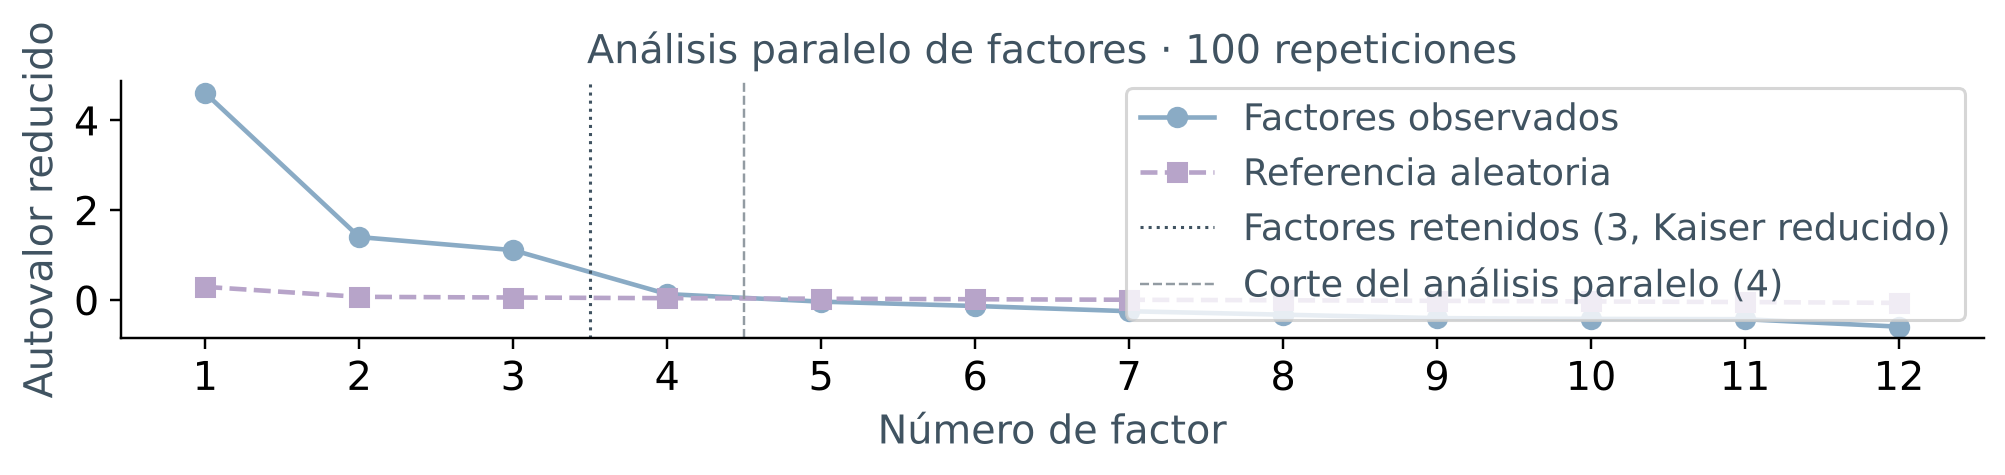
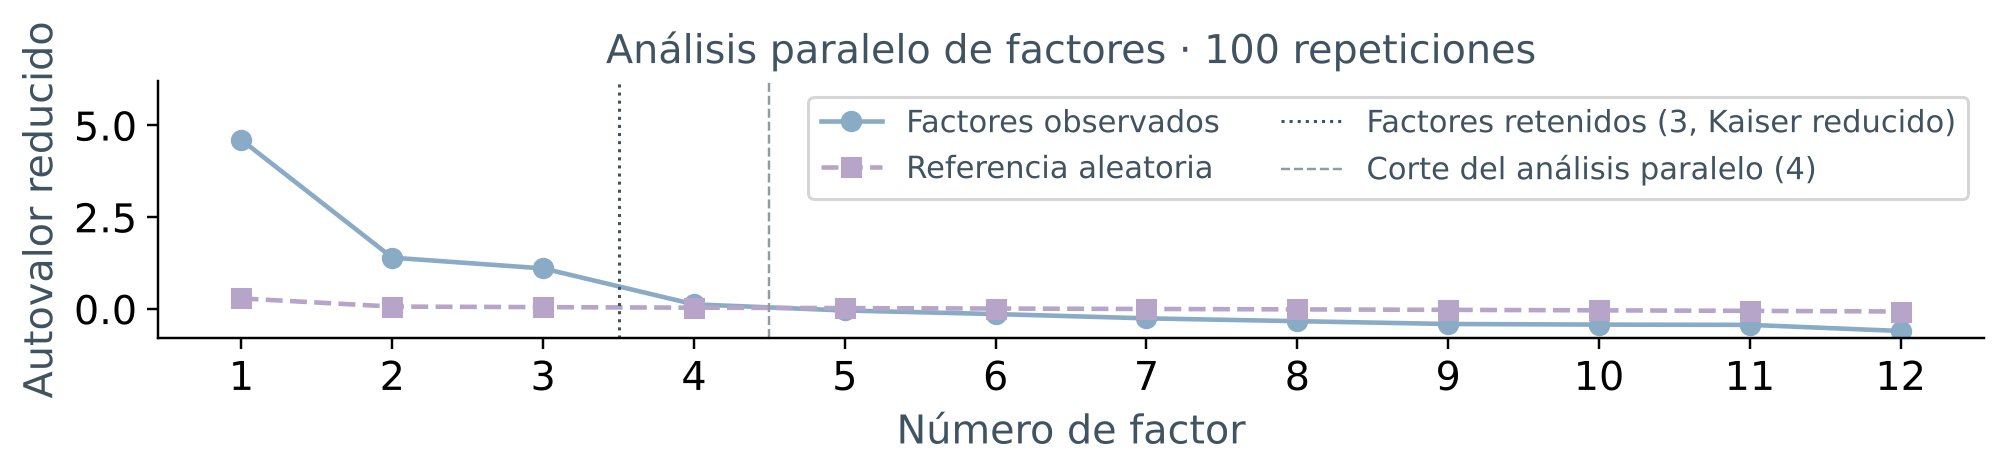
AF: 3 factores GLS sin Heywood; integración sin cifras fijas; capítulo de logística
Claude-Session: https://claude.ai/code/session_01R3eRD9aWdWVaf9U5N6a3X7

diff --git a/informe/capitulos/07_logistica.tex b/informe/capitulos/07_logistica.tex
@@ -1,51 +1,50 @@
 \section{Regresión logística}
 \label{sec:logistica}
 
-\textbf{Objetivo y diseño.} Para contrastar H4 modelamos la probabilidad de que un flujo sea ataque (\texttt{label} = 1) con regresión logística \citep{hosmer2013}. Dividimos la muestra de 5.000 flujos en 3.500 de entrenamiento (51,8\,\% ataques) y 1.500 de prueba (51,9\,\%), de forma estratificada por \texttt{label} y con semilla 42. No usamos el testing set original porque no está en el repositorio y habría que prepararlo con el mismo tratamiento. Para evitar fuga de información reajustamos el ACP solo con el entrenamiento y proyectamos la prueba con esas cargas; estas son casi idénticas a las del capítulo~\ref{sec:acp} (correlación $\ge 0{,}999$, diferencia máxima 0,015), por lo que las componentes se interpretan igual. Los predictores son los puntajes de PC1, PC2 y PC3 y tres categóricas agrupadas: \texttt{proto\_g} (referencia tcp), \texttt{service\_g} (ninguno) y \texttt{state\_g} (FIN), tomando como referencia la categoría más frecuente. Excluimos las variables TTL, que separan perfectamente las clases por un artefacto del laboratorio y darían un AUC irreal, y \texttt{tipo\_trafico} y \texttt{attack\_cat}, que contienen la etiqueta.
+\textbf{Diseño.} Para contrastar H4 modelamos la probabilidad de que un flujo sea ataque (\texttt{label} = 1) con regresión logística \citep{hosmer2013}. Dividimos la muestra en 3.500 flujos de entrenamiento (51,8\,\% ataques) y 1.500 de prueba (51,9\,\%), estratificando por \texttt{label} (semilla 42) (no usamos el testing set original: no está en el repositorio y habría que prepararlo igual). Para evitar fuga reajustamos el ACP solo con el entrenamiento y proyectamos la prueba; las cargas son casi idénticas a las del capítulo~\ref{sec:acp} (correlación $\ge 0{,}999$). Los predictores son PC1 a PC3 y \texttt{proto\_g} (referencia tcp), \texttt{service\_g} (ninguno) y \texttt{state\_g} (FIN), con la categoría más frecuente como referencia. Excluimos TTL (separación perfecta artefactual) y \texttt{tipo\_trafico} y \texttt{attack\_cat} (fuga de la etiqueta).
 
-\textbf{Elección del modelo.} Comparamos M1 (solo los tres puntajes) con M2 (M1 más protocolo, servicio y estado). La prueba de razón de verosimilitud favorece a M2 ($\chi^2 = 862{,}2$; 7 gl; $p < 0{,}001$), que además reduce el AIC en unos 850 puntos y mejora el AUC en 0,08 (Tabla~\ref{tab:log-modelos}). Elegimos M2.
+\textbf{Elección del modelo.} M1 usa solo los puntajes; M2 agrega protocolo, servicio y estado. La razón de verosimilitud favorece a M2 ($\chi^2 = 862{,}2$; 7 gl; $p < 0{,}001$), con unos 850 puntos menos de AIC y 0,08 más de AUC (Tabla~\ref{tab:log-modelos}). Elegimos M2.
 
 \begin{table}[H]
   \centering
-  \caption{Comparación de modelos. El AUC se calcula sobre la muestra de prueba.}\label{tab:log-modelos}
+  \caption{Comparación de modelos; el AUC es sobre la muestra de prueba.}\label{tab:log-modelos}
   \begin{tablacompacta}
   \begin{tabular}{lrrr} \toprule
-  Modelo & AIC & $R^2$ de McFadden & AUC prueba \\ \midrule
+  Modelo & AIC & $R^2$ McFadden & AUC prueba \\ \midrule
   M1: 3 puntajes del ACP & 3.744,1 & 0,229 & 0,794 \\
   M2: M1 + protocolo, servicio, estado & 2.895,9 & 0,407 & 0,878 \\ \bottomrule
   \end{tabular}
   \end{tablacompacta}
 \end{table}
 
-\textbf{Odds ratios.} Los OR de las componentes se expresan por cada desvío estándar del puntaje y los de las categóricas frente a su referencia (Tabla~\ref{tab:log-or}; IC 95\,\% por verosimilitud perfilada). Con los demás predictores fijos, un desvío más de PC1 (más volumen y temporización, menos repetición de conexiones) multiplica las chances de ataque por 4,7; un desvío más de PC2 (más volumen y más repetición a la vez) las reduce un 39\,\%. Frente al estado FIN, las conexiones con estado CON\_otros tienen chances mucho menores de ser ataque (OR 0,05). Los OR de las categóricas son condicionales y poco estables: hay colinealidad entre ellas (VIF $\approx 16$ en \texttt{udp} e INT, 8,1 en CON\_otros; $\le 3{,}7$ en las componentes), de modo que no deben leerse de a uno. Por ejemplo, dns tiene 31\,\% de ataques en el entrenamiento (49\,\% en servicio ninguno), pero su OR ajustado es 18,7, porque el signo cambia al controlar por estado y protocolo. El IC de INT (22,6 a 361,8) es tan ancho que el valor puntual no debe citarse como ``93 veces'': solo concluimos que INT se asocia con mayores chances de ataque. Los OR de \texttt{proto\_g} (udp, otros) y de servicio ``otros'' no se distinguen de 1.
+\textbf{Odds ratios.} Con lo demás fijo, un desvío más de PC1 (más volumen y temporización, menos repetición) multiplica las chances de ataque por 4,7, y uno más de PC2 (más volumen y repetición a la vez) las reduce un 39\,\% (Tabla~\ref{tab:log-or}). El estado CON\_otros tiene chances mucho menores que FIN (OR 0,05). Los OR de las categóricas son condicionales y poco estables por colinealidad (VIF $\approx 16$ en \texttt{udp} e INT; $\le 3{,}7$ en las componentes), así que no deben leerse de a uno: dns tiene 31\,\% de ataques en el entrenamiento (49\,\% en servicio ninguno) pero OR ajustado 18,7: el signo cambia al controlar por estado y protocolo. El IC de INT es muy ancho: no debe citarse ``93 veces''.
 
 \begin{table}[H]
   \centering
-  \caption{Odds ratios del modelo M2 (principales términos). Componentes: OR por desvío del puntaje. El resto de los términos (protocolo otros, servicio otros) tiene IC que incluye 1.}\label{tab:log-or}
+  \caption{Odds ratios de M2 con IC 95\,\% por verosimilitud perfilada (componentes: por desvío del puntaje; categóricas: frente a la referencia). Los términos de protocolo (udp, otros) y servicio otros tienen IC que incluyen 1.}\label{tab:log-or}
   \begin{tablacompacta}
   \begin{tabular}{lrr} \toprule
   Término & OR & IC 95\,\% \\ \midrule
-  PC1 (por desvío) & 4,68 & 3,82 -- 5,77 \\
-  PC2 (por desvío) & 0,61 & 0,54 -- 0,69 \\
-  PC3 (por desvío) & 2,55 & 2,27 -- 2,89 \\
+  PC1 & 4,68 & 3,82 -- 5,77 \\
+  PC2 & 0,61 & 0,54 -- 0,69 \\
+  PC3 & 2,55 & 2,27 -- 2,89 \\
   Estado INT vs FIN & 92,7 & 22,6 -- 361,8 \\
   Estado CON\_otros vs FIN & 0,05 & 0,02 -- 0,13 \\
   Servicio dns vs ninguno & 18,7 & 8,5 -- 43,0 \\
-  Servicio http vs ninguno & 1,88 & 1,47 -- 2,42 \\
-  Protocolo udp vs tcp & 0,42 & 0,11 -- 1,73 \\ \bottomrule
+  Servicio http vs ninguno & 1,88 & 1,47 -- 2,42 \\ \bottomrule
   \end{tabular}
   \end{tablacompacta}
 \end{table}
 
-\textbf{Desempeño en prueba.} Con umbral 0,5, M2 alcanza AUC = 0,878 (IC 95\,\% de DeLong, calculado con \texttt{pROC} \citep{robin2011}: 0,860 -- 0,896), exactitud 0,817, sensibilidad 0,910, especificidad 0,717 y precisión 0,776. El error dominante son los falsos positivos: 204 flujos normales marcados como ataque (28,3\,\% de los normales) frente a 70 ataques no detectados (9,0\,\%; Figura~\ref{fig:log-roc}). En detección de intrusiones esto significa que el modelo prioriza no dejar pasar ataques a costa de generar alertas falsas, que en una red real implican carga de revisión; como el umbral no está optimizado, podría ajustarse según el costo relativo de cada error.
+\textbf{Desempeño en prueba.} Con umbral 0,5, M2 logra AUC = 0,878 (IC 95\,\% de DeLong con \texttt{pROC} \citep{robin2011}: 0,860 -- 0,896), exactitud 0,817, sensibilidad 0,910, especificidad 0,717 y precisión 0,776. Domina el falso positivo: 204 normales marcados como ataque (28,3\,\% de los normales) frente a 70 ataques no detectados (9,0\,\%; Figura~\ref{fig:log-roc}). En detección de intrusiones el modelo prioriza no dejar pasar ataques a costa de alertas falsas.
 
 \begin{figure}[H]
   \centering
-  \grafico[0.88\linewidth]{17_logistica_roc_confusion.png}
-  \caption{Curva ROC y matriz de confusión de M2 en la muestra de prueba (umbral 0,5). La curva se aleja claramente de la diagonal del azar; el error principal son los normales clasificados como ataque. Fuente: elaboración propia con UNSW-NB15.}
+  \grafico[0.6\linewidth]{17_logistica_roc_confusion.png}
+  \caption{Curva ROC y matriz de confusión de M2 en la prueba (umbral 0,5). La curva se aleja de la diagonal del azar; el error principal son los normales clasificados como ataque. Fuente: elaboración propia con UNSW-NB15.}
   \label{fig:log-roc}
 \end{figure}
 
-\textbf{Diagnóstico.} No hay separación: el algoritmo convergió en 6 iteraciones sin avisos, el coeficiente máximo en valor absoluto es 4,5 (error estándar máximo 0,71) y ninguna probabilidad ajustada está a menos de $10^{-8}$ de 0 o 1. Respecto de la influencia, 151 flujos (4,3\,\%) superan el umbral $4/n$ de la distancia de Cook, pero el máximo es 0,030, muy lejos de 1, y no quitamos ninguno. La calibración es razonable en el centro, aunque los deciles altos sobreestiman (decil 10: predicho 0,94, observado 0,86) y el decil 4 subestima (0,38 frente a 0,48), con ruido de varios puntos por decil de 150 flujos (Anexo A, Figura A.\ref{fig:a-log-or-cal}, donde también se grafican los OR).
+\textbf{Diagnóstico.} No hay separación: convergió en 6 iteraciones sin avisos, el coeficiente máximo es 4,5 y ninguna probabilidad ajustada está a menos de $10^{-8}$ de 0 o 1. En influencia, 151 flujos (4,3\,\%) superan $4/n$ en la distancia de Cook, pero el máximo es 0,030, muy lejos de 1. La calibración es razonable, salvo que el decil 10 sobreestima (predicho 0,94, observado 0,86; Anexo A, Figura~\ref{fig:a-log-or-cal}).
 
-\textbf{Cierre e H4.} H4 se confirma: el AUC en prueba es 0,878 y el límite inferior de su IC (0,860) también supera 0,80. La mejora se debe a incorporar protocolo, servicio y estado, ya que con las componentes solas (M1, AUC 0,794) la hipótesis no se cumpliría. La probabilidad estimada es relativa a esta base (52\,\% de ataques, sin duplicados, ataques sintéticos de laboratorio): interpretamos odds ratios y no prevalencias absolutas, y el desempeño no se extrapola a una red real.
+\textbf{Cierre.} H4 se confirma: el AUC en prueba es 0,878 y el límite inferior de su IC (0,860) también supera 0,80; con las componentes solas (M1, 0,794) no se cumpliría. La probabilidad estimada es relativa a esta base (52\,\% de ataques, sin duplicados, ataques sintéticos): interpretamos odds ratios, no prevalencias, y no extrapolamos a una red real.

diff --git a/informe/capitulos/02_datos.tex b/informe/capitulos/02_datos.tex
@@ -1,5 +1,48 @@
 \section{Datos}
 \label{sec:datos}
 
-[Pendiente]
+\textbf{Origen y unidad de análisis.} Trabajamos con UNSW-NB15 \citep{moustafa2015,moustafa2016}, publicada por UNSW Canberra para uso académico con obligación de citar a sus autores. El tráfico normal es realista, pero los ataques se generaron de forma sintética en un laboratorio. La unidad de análisis es el flujo; el prefijo \texttt{s} indica el sentido origen$\to$destino y \texttt{d} el inverso. Partimos del archivo de entrenamiento (175.341 flujos y 45 columnas) y construimos una muestra de 5.000 flujos únicos, estratificada de forma proporcional por \texttt{attack\_cat}: 48,2~\% normales y 51,8~\% ataques (Exploits 18,4~\%, Fuzzers 15,0~\%, Reconnaissance 7,0~\% y el resto, 11,5~\%, agrupado como ``otros ataques''). Al eliminar los duplicados, que en el archivo original eran el 38,6~\% y en su mayoría ataques automáticos, analizamos perfiles distintos de flujo: las proporciones de la muestra no son prevalencias reales de la red.
 
+\textbf{Transformación.} Las variables son positivas, con colas muy largas y rangos de varios órdenes de magnitud. Aplicamos $\log(x+1)$, que conserva los ceros y reduce la asimetría de \texttt{sbytes} de 33,3 a 1,0, la de \texttt{spkts} de 30,9 a 0,8 y la de \texttt{dbytes} de 36,2 a $-0,4$. Persisten colas en \texttt{log\_dur} (2,8), \texttt{log\_ct\_src\_dport\_ltm} (3,1) y \texttt{log\_ct\_dst\_sport\_ltm} (4,7). Los gráficos antes y después están en el Anexo A (Figuras~\ref{fig:a-hist-crudos} y~\ref{fig:a-hist-log}).
+
+\textbf{Variables.} El conjunto X\_num queda formado por las 12 variables de la Tabla~\ref{tab:xnum}, todas en escala logarítmica, agrupadas en los tres bloques esperados. El conjunto X\_cat tiene siete variables: \texttt{tipo\_trafico} (Normal, Exploits, Fuzzers, Reconnaissance y Otros ataques), \texttt{proto\_g} (tcp 70,8~\%, udp 21,9~\%, otros 7,3~\%), \texttt{service\_g} (ninguno 60,0~\%, http 17,4~\%, otros 12,3~\%, dns 10,3~\%), \texttt{state\_g} (FIN 69,3~\%, INT 18,3~\%, CON\_otros 12,4~\%) y tres numéricas discretizadas, \texttt{respuesta\_destino}, \texttt{duracion\_banda} y \texttt{bytes\_origen\_banda}, cuyos cortes se justifican en la sección~\ref{sec:acm}. Ninguna categoría baja del 5~\% (la menor es Reconnaissance, con 7,0~\%). Las variables \texttt{tipo\_trafico}, \texttt{attack\_cat} y \texttt{label} no intervienen en la construcción de componentes, factores ni clusters: solo colorean o se cruzan después.
+
+\begin{table}[H]
+  \centering
+  \caption{Variables de X\_num (todas en escala $\log(x+1)$; la unidad es la de la variable original).}\label{tab:xnum}
+  \begin{tablacompacta}
+  \begin{tabular}{@{}llp{6.6cm}l@{}}
+  \toprule
+  Variable & Bloque esperado & Significado & Unidad \\
+  \midrule
+  \texttt{spkts} & Volumen & Paquetes enviados por el origen & paquetes \\
+  \texttt{sbytes} & Volumen & Bytes enviados por el origen & bytes \\
+  \texttt{dbytes} & Volumen & Bytes enviados por el destino & bytes \\
+  \texttt{dur} & Temporización & Duración total del flujo & segundos \\
+  \texttt{sinpkt} & Temporización & Tiempo entre paquetes del origen & ms \\
+  \texttt{sjit} & Temporización & Jitter (variabilidad de esos tiempos) del origen & ms \\
+  \texttt{synack} & Temporización & Tiempo entre SYN y SYN-ACK (0 si no es TCP) & segundos \\
+  \texttt{ct\_srv\_src} & Repetición & Últimas 100 conexiones con igual servicio y origen & conexiones \\
+  \texttt{ct\_srv\_dst} & Repetición & Ídem con igual servicio y destino & conexiones \\
+  \texttt{ct\_src\_ltm} & Repetición & Ídem con igual origen & conexiones \\
+  \texttt{ct\_src\_dport\_ltm} & Repetición & Ídem con igual origen y puerto destino & conexiones \\
+  \texttt{ct\_dst\_sport\_ltm} & Repetición & Ídem con igual destino y puerto origen & conexiones \\
+  \bottomrule
+  \end{tabular}
+  \end{tablacompacta}
+\end{table}
+
+\textbf{Calidad.} No hay valores faltantes ni textos vacíos, filas duplicadas ni identificadores repetidos, y tampoco valores negativos, TTL fuera de 0--255, conteos no enteros ni flujos con menos bytes que paquetes (Anexo A, Tabla~\ref{tab:a-calidad}). La única incidencia es un flujo con \texttt{is\_ftp\_login} = 4, un código no binario; lo conservamos porque esa variable no entra en los análisis. El servicio ``\texttt{-}'' se recodificó como ``ninguno'' (sin servicio identificado, no faltante). Hay ceros estructurales que no imputamos: \texttt{synack} en 1.482 flujos (29,6~\%, sin handshake TCP), \texttt{sjit} en 1.294 (25,9~\%) y \texttt{dbytes} en 945 (18,9~\%, el destino no respondió). Para los atípicos usamos el criterio de Tukey, fuera de $[Q_1-1{,}5\,\mathrm{RIC};\,Q_3+1{,}5\,\mathrm{RIC}]$ sobre la escala logarítmica. Resultan 1.714 flujos (34,3~\%) con al menos una de las 12 variables fuera de los límites; la mayor cifra es la de \texttt{log\_dbytes}, 1.056 casos (21,1~\%), de los cuales 945 son los ceros de flujos sin respuesta. En \texttt{log\_ct\_dst\_sport\_ltm} el criterio es poco informativo, porque el 90,7~\% de los flujos vale 1 y el rango intercuartílico es nulo. Decidimos conservar todos los flujos: en ciberseguridad lo extremo puede ser el fenómeno de interés y un valor extremo no prueba un error (boxplots en Anexo A, Figura~\ref{fig:a-boxplots}).
+
+\textbf{Descriptiva y supuestos.} La Figura~\ref{fig:correlaciones} muestra tres zonas. Las variables de volumen se correlacionan entre sí (\texttt{spkts}--\texttt{sbytes} 0,86; \texttt{spkts}--\texttt{dbytes} 0,80), las de temporización también (\texttt{sinpkt}--\texttt{sjit} 0,85; \texttt{dur}--\texttt{sinpkt} 0,68) y las de repetición forman un tercer grupo (\texttt{ct\_srv\_src}--\texttt{ct\_srv\_dst} 0,85; \texttt{ct\_src\_dport\_ltm}--\texttt{ct\_dst\_sport\_ltm} 0,74). Las repeticiones se correlacionan de forma negativa con el resto (entre $-0,13$ y $-0,43$), y \texttt{sjit} tiene correlaciones de 0,46 a 0,55 con las de volumen, de modo que los bloques no están completamente aislados.
+
+\begin{figure}[H]
+  \centering
+  \grafico[0.56\linewidth]{04_correlaciones.png}
+  \caption{Correlaciones de Pearson entre las 12 variables de X\_num. Se distinguen los bloques de volumen, temporización y repetición de conexiones; el último se asocia de forma negativa con los otros dos. Fuente: elaboración propia con UNSW-NB15.}
+  \label{fig:correlaciones}
+\end{figure}
+
+Los supuestos se cumplen: el determinante de la matriz de correlaciones es $6{,}3\times10^{-5}$ (mayor que $10^{-5}$), el KMO global es 0,748, la menor MSA es 0,621 (\texttt{log\_spkts}; ninguna variable queda bajo 0,50, Anexo A, Figura~\ref{fig:a-msa}) y la prueba de Bartlett rechaza que la matriz sea identidad ($\chi^2$ = 48.303,5; 66 gl; p < 0,001), aunque con n = 5.000 esto ocurre ante casi cualquier asociación y pesa más el KMO. Con las 14 variables candidatas el determinante era $1{,}0\times10^{-7}$, por la redundancia de \texttt{dpkts} (r = 0,95 con \texttt{dbytes}) y de \texttt{rate} (r = $-0,91$ con \texttt{sinpkt}, y calculada a partir de los paquetes y la duración). Quitar solo \texttt{dpkts} dejaba el determinante en $5{,}2\times10^{-6}$, aún bajo el umbral; por eso excluimos las dos. Estas columnas siguen en la base: \texttt{dpkts} define \texttt{respuesta\_destino}.
+
+\textbf{Vínculo con H1.} Las correlaciones son compatibles con tres bloques, aunque la separación entre volumen y temporización es parcial; las secciones siguientes ponen a prueba si ACP, AF y el cluster de variables los recuperan.

diff --git a/informe/capitulos/01_introduccion.tex b/informe/capitulos/01_introduccion.tex
@@ -1,5 +1,17 @@
 \section{Introducción}
 \label{sec:introduccion}
 
-[Pendiente]
+La detección de intrusiones busca identificar, a partir del tráfico que circula por una red, las conexiones que forman parte de un ataque. Para estudiar este problema se usan bases etiquetadas; una de las más difundidas es UNSW-NB15, creada por \citet{moustafa2015} en el laboratorio de ciberseguridad de UNSW Canberra, que combina tráfico normal con nueve tipos de ataque generados de forma sintética \citep{moustafa2016}. Cada fila es un flujo, una conversación entre un origen y un destino, descrita por variables de volumen, tiempo, conexión y contexto. Esa estructura la hace apropiada para la estadística multivariada: reúne muchas variables numéricas correlacionadas, varias categóricas y una etiqueta externa (normal o ataque) con la cual contrastar, sin usarla para construirlos, los patrones que las técnicas encuentren.
 
+Nuestra pregunta guía es: \emph{¿qué patrones de volumen, temporización y repetición de conexiones caracterizan a los flujos de red de UNSW-NB15, y en qué medida esos patrones, junto con el protocolo, el servicio y el estado de la conexión, distinguen el tráfico normal del de ataque al punto de permitir estimar la probabilidad de que un flujo sea un ataque?} Las hipótesis se apoyan en el diseño de la base y en el conocimiento del dominio. Como ya habíamos explorado los datos al fijarlas, las tratamos como hipótesis de partida y las contrastamos al final, incluidas las que no se cumplan.
+
+\begin{singlespace}
+\begin{itemize}\setlength{\itemsep}{1pt}\setlength{\topsep}{2pt}
+  \item \textbf{H1.} Las 12 variables numéricas forman tres bloques correlacionados entre sí: volumen, temporización y repetición de conexiones; el ACP, el AF y el cluster de variables deberían recuperarlos.
+  \item \textbf{H2.} Existen grupos de flujos definidos sobre todo por la forma de la conexión; separan parcialmente lo normal de lo atacante, pero no los tipos de ataque entre sí.
+  \item \textbf{H3.} El ataque se asocia con conexiones incompletas (estado INT) y sin respuesta del destino; lo normal, con conexiones cerradas (FIN, CON) y servicios identificados.
+  \item \textbf{H4.} Un modelo logístico con los ejes del ACP, el protocolo, el servicio y el estado alcanza un AUC mayor a 0,80 en datos de validación.
+\end{itemize}
+\end{singlespace}
+
+El informe sigue el orden del análisis. La sección~\ref{sec:datos} describe la base, su calidad y los supuestos; las secciones~\ref{sec:acp} y~\ref{sec:af} resumen las variables numéricas con componentes principales y factores; la sección~\ref{sec:cluster} agrupa observaciones y variables; la sección~\ref{sec:acm} estudia las asociaciones entre categorías; la sección~\ref{sec:logistica} modela la probabilidad de ataque; y la sección~\ref{sec:integracion} integra las técnicas, contrasta H1--H4 y presenta limitaciones y conclusiones.

diff --git a/informe/anexos/a_datos.tex b/informe/anexos/a_datos.tex
@@ -1,0 +1,58 @@
+\subsection{Datos}
+\label{anexo:datos}
+
+\begin{table}[H]
+  \centering
+  \caption{Controles de calidad sobre la muestra de 5.000 flujos (cantidad de casos que incumplen cada control).}\label{tab:a-calidad}
+  \begin{tablacompacta}
+  \begin{tabular}{@{}lr@{\hspace{1.2cm}}lr@{}}
+  \toprule
+  Control & Casos & Control & Casos \\
+  \midrule
+  Valores NA & 0 & TTL fuera de 0 a 255 & 0 \\
+  Textos vacíos & 0 & Ventana TCP fuera de 0 a 65.535 & 0 \\
+  Filas duplicadas & 0 & \texttt{dur} = 0 con \texttt{spkts} > 1 & 0 \\
+  Identificadores repetidos & 0 & \texttt{sbytes} < \texttt{spkts} & 0 \\
+  Perfiles duplicados sin \texttt{id} & 0 & Indicadores fuera de 0/1 (\texttt{usa\_http}, \texttt{is\_sm\_ips\_ports}) & 0 \\
+  Celdas negativas & 0 & \texttt{is\_ftp\_login} fuera de 0/1 & 1 \\
+  Celdas no finitas & 0 & \texttt{label} fuera de normal/ataque & 0 \\
+  Conteos no enteros & 0 & \texttt{label} y \texttt{attack\_cat} inconsistentes & 0 \\
+  \bottomrule
+  \end{tabular}
+  \end{tablacompacta}
+\end{table}
+
+\begin{figure}[H]
+  \centering
+  \grafico[0.95\linewidth]{01_boxplots.png}
+  \caption{Diagramas de caja de las 12 variables de X\_num en escala logarítmica, con los límites de Tukey ($\pm 1{,}5$ RIC). El título de cada panel indica la cantidad de flujos fuera de los límites. Se conservan todos los registros. Fuente: elaboración propia con UNSW-NB15.}
+  \label{fig:a-boxplots}
+\end{figure}
+
+\begin{figure}[H]
+  \centering
+  \grafico[0.95\linewidth]{02_histogramas_log.png}
+  \caption{Histogramas de las 12 variables de X\_num tras la transformación $\log(x+1)$. Las distribuciones de volumen y de temporización son multimodales (las modas corresponden a protocolos y tipos de flujo) y las de repetición conservan una cola derecha. Fuente: elaboración propia con UNSW-NB15.}
+  \label{fig:a-hist-log}
+\end{figure}
+
+\begin{figure}[H]
+  \centering
+  \grafico[0.95\linewidth]{03_histogramas_crudos.png}
+  \caption{Histogramas de las variables en su escala original (incluida \texttt{dpkts}, excluida de X\_num). La concentración cerca de cero y las colas extremas justifican la transformación logarítmica. Fuente: elaboración propia con UNSW-NB15.}
+  \label{fig:a-hist-crudos}
+\end{figure}
+
+\begin{figure}[H]
+  \centering
+  \grafico[0.95\linewidth]{05_frecuencias_categoricas.png}
+  \caption{Frecuencias relativas de las siete variables de X\_cat tras agrupar categorías y discretizar tres variables numéricas. Ninguna categoría queda por debajo del 5~\%. Fuente: elaboración propia con UNSW-NB15.}
+  \label{fig:a-frecuencias}
+\end{figure}
+
+\begin{figure}[H]
+  \centering
+  \grafico[0.8\linewidth]{06_msa.png}
+  \caption{Medida de adecuación muestral (MSA) por variable, con KMO global de 0,748. Todas superan el umbral de 0,50; la menor es \texttt{log\_spkts} (0,621). Fuente: elaboración propia con UNSW-NB15.}
+  \label{fig:a-msa}
+\end{figure}

diff --git a/informe/anexos/anexo_a_complementos.tex b/informe/anexos/anexo_a_complementos.tex
@@ -1,5 +1,14 @@
+% Anexo A: figuras y tablas complementarias. Cada capítulo agrega las suyas en
+% anexos/a_<capitulo>.tex; aquí se incluyen en el orden del informe.
 \section{Figuras y tablas complementarias}
 \label{anexo:complementos}
+Este anexo reúne gráficos y tablas que respaldan el cuerpo del informe pero que no son
+imprescindibles para seguir el razonamiento. Se presentan en el mismo orden que los capítulos.
 
-[Pendiente]
-
+\IfFileExists{anexos/a_datos.tex}{\input{anexos/a_datos}}{}
+\IfFileExists{anexos/a_acp.tex}{\input{anexos/a_acp}}{}
+\IfFileExists{anexos/a_af.tex}{\input{anexos/a_af}}{}
+\IfFileExists{anexos/a_cluster.tex}{\input{anexos/a_cluster}}{}
+\IfFileExists{anexos/a_acm.tex}{\input{anexos/a_acm}}{}
+\IfFileExists{anexos/a_logistica.tex}{\input{anexos/a_logistica}}{}
+\clearpage

diff --git a/python/verificar_resultados.py b/python/verificar_resultados.py
@@ -48,7 +48,7 @@ q = base[["tipo_trafico", "proto_g", "service_g", "state_g"]].copy()
 q["respuesta_destino"] = np.where(base.dpkts.eq(0), "sin_respuesta", "con_respuesta")
 c = leer("cortes_discretizacion").set_index("variable")
 q["duracion_banda"] = pd.cut(base.dur, [-np.inf, c.loc["dur", "corte_1"], c.loc["dur", "corte_2"], np.inf], labels=["corta", "media", "larga"])
-q["bytes_origen_banda"] = pd.cut(base.sbytes, [-np.inf, 564, 1580, np.inf], labels=["bajos", "medios", "altos"])
+q["bytes_origen_banda"] = pd.cut(base.sbytes, [-np.inf, c.loc["sbytes", "corte_1"], c.loc["sbytes", "corte_2"], np.inf], labels=["bajos", "medios", "altos"])
 A = pd.get_dummies(q, dtype=float).to_numpy()
 n, Q, J = len(q), len(q.columns), A.shape[1]
 P = A / (n * Q)

diff --git a/python/graficos_parte2.py b/python/graficos_parte2.py
@@ -147,7 +147,8 @@ ax.plot(par.dimension, par.factor_simulado, "s--", color="#B7A4C9", label="Refer
 ax.axvline(3.5, color=DARK, ls=":", lw=1, label="Factores retenidos (3, Kaiser reducido)")
 ax.axvline(4.5, color="#929BA2", ls="--", lw=.8, label="Corte del análisis paralelo (4)")
 ax.set(xlabel="Número de factor", ylabel="Autovalor reducido", title="Análisis paralelo de factores · 100 repeticiones", xticks=range(1, 13))
-ax.legend(fontsize=12)
+ax.set_ylim(-0.8, 6.2)
+ax.legend(fontsize=10, ncol=2, loc="upper right")
 guardar(fig, "09_af_paralelo")
 
 def linkage_r(nombre, n):

diff --git a/informe/main.tex b/informe/main.tex
@@ -169,6 +169,9 @@
 \clearpage
 \appendix
 \renewcommand{\thesection}{\Alph{section}}
+% En los anexos, figuras y tablas se numeran A.1, A.2, B.1...
+\counterwithin{figure}{section}
+\counterwithin{table}{section}
 \input{anexos/anexo_a_complementos}
 \input{anexos/anexo_b_scripts}
 

diff --git a/docs/validacion_decisiones.md b/docs/validacion_decisiones.md
@@ -1,0 +1,62 @@
+# Validación de decisiones (Etapas 0 a 6)
+
+> Todas las cifras salen de `resultados/tablas/` tras correr `Rscript R/ejecutar_todo.R`. El diagnóstico del AF se reproduce con `Rscript R/aux_diagnostico_af.R`.
+
+## 1. Análisis factorial: caso Heywood y número de factores
+
+**Problema.** Con 4 factores (lo que sugiere el análisis paralelo) `log_spkts` tiene comunalidad 1,029 con minres (unicidad negativa) y 0,995 con ML (unicidad en el límite 0,005). Esto **no depende de 3 vs 4 factores ni de la rotación** (varimax y oblimin dan lo mismo: la rotación no cambia las comunalidades). Pasa con minres, pa, ML, wls y uls. La causa: `log_spkts` casi se reproduce con el factor Volumen (r = 0,86 con `log_sbytes` y 0,80 con `log_dbytes`) y ese factor tiene solo 3 indicadores, el caso clásico de Heywood.
+
+| Solución | Heywood | RMSR | TLI | RMSEA | % var. | Interpretación |
+|---|---|---|---|---|---|---|
+| 3 f. minres | Sí (1,025) | 0,045 | 0,687 | 0,214 | 67,4 | 3 bloques de H1 |
+| 3 f. pa | Sí (1,095) | 0,045 | 0,684 | 0,215 | 67,7 | 3 bloques de H1 |
+| 3 f. ML | Sí (límite, 0,995) | 0,059 | 0,716 | 0,204 | 67,0 | 3 bloques de H1 |
+| **3 f. GLS** | **No (máx. 0,897; unicidad mín. 0,103)** | 0,051 | 0,609 | 0,239 | 68,6 | **3 bloques de H1** |
+| 4 f. minres | Sí (1,029) | 0,026 | 0,777 | 0,180 | 73,0 | divide ct_* en dos |
+| 4 f. ML | Sí (límite) | 0,033 | 0,793 | 0,174 | 73,6 | divide ct_* en dos |
+| 4 f. GLS | Sí (1,011) | 0,028 | 0,778 | 0,180 | 73,6 | divide ct_* en dos |
+
+En todas las soluciones hay 0 variables sin carga ≥ 0,40 y 0 cargas cruzadas ambiguas (diferencia < 0,20).
+
+**¿Es sustantivo el 4.º factor?** Poco:
+- Autovalor factorial observado 0,127 (simulado 0,036): supera al azar solo porque n = 5.000 hace que el análisis paralelo detecte casi cualquier cosa. Está lejos de 1.
+- Kaiser sobre la matriz reducida (diagonal = SMC): 4,93 · 1,78 · 1,44 · **0,43** → 3 factores. El 4.º aporta 4,8 % de la varianza común. El ACP (Kaiser y codo) también da 3.
+- Solo parte el bloque `ct_*` en dos: `ct_srv_*` (servicio) con 2 variables fuertes, y `ct_*_dport/sport` (puertos). Con oblimin esos dos factores correlacionan 0,62, es decir, miden casi lo mismo. Un factor con 2 indicadores es síntoma de sobreextracción.
+
+**Decisión: 3 factores, estimador GLS, varimax.** Es la única combinación probada de 3 o 4 factores sin Heywood (cambiar de estimador es un remedio estándar y no obliga a sacar una variable de X_num). Explica 68,6 % de la varianza total (F1 25,1 · F2 22,4 · F3 21,1), comunalidad mínima 0,356 (`log_ct_src_ltm`), todas las unicidades ≥ 0,103. Cada variable carga ≥ 0,54 en un solo factor:
+- **F1 Repetición de conexiones** (5 `ct_*`, cargas 0,54 a 0,91).
+- **F2 Temporización** (`dur`, `sinpkt`, `sjit`, `synack`, 0,68 a 0,87).
+- **F3 Volumen** (`spkts`, `sbytes`, `dbytes`, 0,79 a 0,91).
+
+Coincide con H1 y con los bloques del cluster de variables (ARI = 1,000).
+
+**Qué decir con honestidad ante la docente:**
+1. El análisis paralelo sugiere 4 y nos apartamos, con los motivos de arriba. El gráfico (figura 09) muestra ambos cortes.
+2. Con 4 factores el ajuste es mejor (RMSR 0,033 vs 0,051; TLI 0,79 vs 0,61). Es el costo de la parsimonia. El ajuste exacto se rechaza en todas las soluciones (χ² p < 0,001, normal con n = 5.000) y el RMSEA es alto (0,17 a 0,24): el modelo es descriptivo, no confirmatorio.
+3. GLS estima la comunalidad de `log_spkts` en 0,87; los demás estimadores la llevan a 1 o más. Debe leerse como "casi toda su varianza es Volumen". No cambia ni cargas ni nombres.
+4. Sensibilidad (solo informativa, X_num no se toca): sin `log_spkts`, 3 factores no tienen Heywood con ningún estimador. Es propuesta a discutir en el grupo, no se implementó (regla 3).
+
+## 2. Cortes del ACM (7 variables)
+
+- **Terciles de `dur` (0,0185 s y 0,709 s) y `sbytes` (564 y 1.580 bytes).** Ambas variables son muy asimétricas (`dur`: mediana 0,30 s, p99 32 s; 26 flujos con `dur` = 0). Cortes de igual amplitud dejarían casi todo en una categoría y la ACM se dominaría por modalidades raras. Los terciles dan categorías de 33 % (todas ≥ 5 %) y no usan la etiqueta de ataque, así que no hay fuga. Sustantivamente: 18 ms es del orden de un intercambio mínimo en una red de laboratorio; 1.580 bytes está cerca del MTU de Ethernet (1.500), o sea "altos" ≈ más de un paquete lleno. **Es una lectura a posteriori; el criterio principal es estadístico (igual frecuencia).** Alternativa con sentido (< 0,01 s / < 1 s; ≤ 200 / 1.500 bytes) da categorías de 31/45/24 % y 21/43/36 %: también válida, no mejor.
+- **`respuesta_destino`** (`dpkts` = 0, 18,9 %): corte natural, no hay que elegir un umbral. Es "sin respuesta del destino", sustantivo para H3.
+- Conviene saber: `duracion_banda` y `bytes_origen_banda` se asocian a `tipo_trafico` (V de duración con tipo = 0,26), así que no son ruido.
+
+## 3. Par del ACS: tipo_trafico × state_g
+
+V de Cramér: state_g 0,405 > service_g 0,320 > proto_g 0,302. `state_g` es la variable que mejor encarna H3 (INT = conexión incompleta). La tabla 5 × 3 tiene frecuencia esperada mínima 43 (supuesto del χ² sobrado) y dos dimensiones capturan el 100 % de la inercia (77,9 % + 22,1 %), por lo que el mapa no pierde información. `respuesta_destino` daría 1 sola dimensión (solo 2 columnas). Cuidado al interpretar: `state_g` está ligado a `proto_g` (FIN solo ocurre en TCP; INT incluye todo `otros`).
+
+## 4. Número de clusters: k = 6
+
+- Silhouette k-means: k = 2: 0,328 · 3: 0,302 · 4: 0,327 · 5: 0,329 · **6: 0,333** · 7: 0,277 · 8: 0,284. Las diferencias entre k = 2 y 6 son < 0,006: son empates prácticos, y todas están por debajo de 0,5 (estructura de grupos débil). Lo que sí es claro es la caída en k = 7.
+- Codo (WSS k-means): las ganancias son 7.496 (2→3), 6.722 (3→4), 3.046 (4→5), 2.054 (5→6), 1.858 (6→7). **El codo más marcado está en k = 4**, no en 6.
+- Interpretabilidad de k = 6: cluster 1 (898) es 98,6 % Normal y 1,4 % ataque; cluster 3 (147 flujos, 2,9 %) es 100 % ataque, 88 % Generic, con `ct_dst_sport_ltm` +5,1 desvíos: es un grupo chico pero sustantivo (ráfagas repetidas), no un artefacto. ARI Ward vs k-means = 0,813. Con otras semillas k = 6 da tamaños casi iguales (141 a 2.140), es estable.
+- **Veredicto: defendible, no indefendible; no se cambió.** Se elige por silhouette máxima y se reconoce que k = 4 también es defendible (codo, silhouette 0,327). Debilidad a declarar: los clusters 2 y 6 tienen silhouette media baja (0,06 y 0,12) y 36 % y 27 % de sus flujos con silhouette negativa: están mal separados.
+
+## 5. Otros problemas encontrados
+
+1. **Cifras a mano**: `05_integracion.R` ya las calcula desde las tablas. Siguen escritas a mano en `python/graficos_parte2.py` los rótulos del biplot ("CP1 (43,29%)", "CP2 (16,88%)") y los textos cualitativos de las filas ACP, ACS y ACM de `integracion_tecnicas`; no se tocaron pero hay que revisarlos si cambia la base.
+2. **H2 se cumple solo en parte**: el cluster 3 aísla casi solo ataques Generic (no "no distingue tipos de ataque"). Reportarlo en el informe.
+3. **ACM**: el 87,4 % es inercia **ajustada** (Greenacre), que es optimista; la inercia cruda de las dos primeras dimensiones es 41,4 %. Aclararlo siempre junto al número.
+4. `verificar_resultados.py` tenía el corte de `sbytes` (564 y 1.580) escrito a mano; ahora lo lee de `cortes_discretizacion.csv`.
+5. Cambio de formato en las salidas del AF: ahora hay F1 a F3 en vez de F1 a F4, y `af_puntajes.csv` tiene `Factor1` a `Factor3`.
